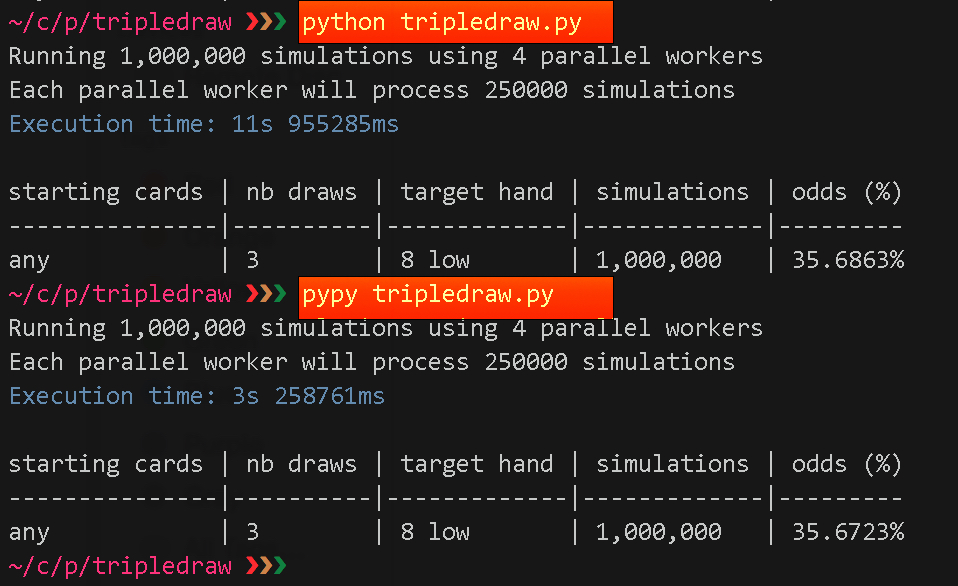
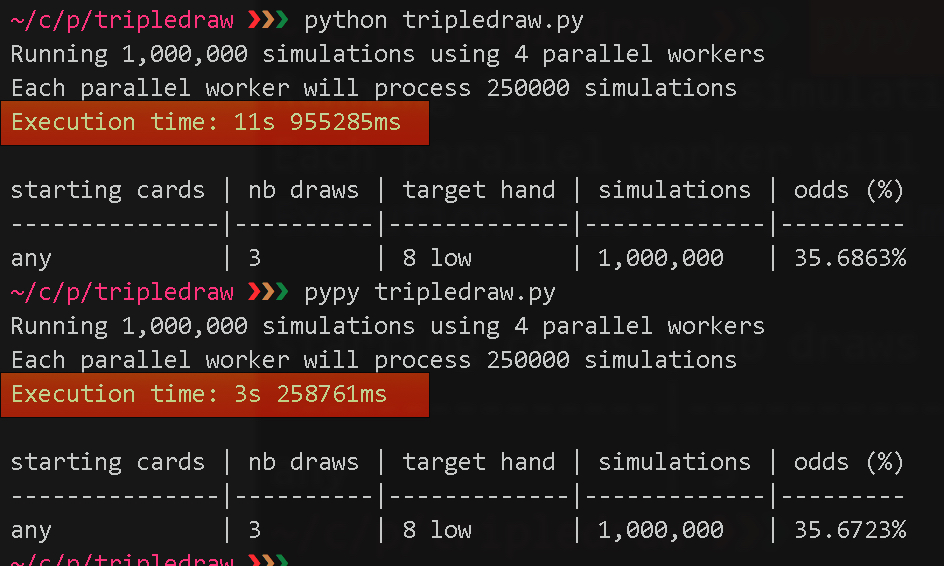
Fixing up typos in readme and new performance test screenshot

Changed region(s): [[0.0, 0.3004, 0.9523, 0.7509], [0.0, 0.0, 0.7987, 0.2703], [0.0, 0.7809, 0.9523, 1.0]]

diff --git a/README.md b/README.md
@@ -2,7 +2,7 @@ TripleDraw :dart:
 ================
 
 
-**TripleDraw is a command line utility for studying cards probabilities in the games of 2-7 Triple Draw And Single Draw (poker)**
+**TripleDraw is a command line utility for studying card probabilities in the games of 2-7 Triple Draw And Single Draw (poker)**
 
 
 ### Before You Start
@@ -49,7 +49,7 @@ starting cards | nb draws | target hand | simulations | odds (%)
 any            | 0        | J low       | 50,000      | 9.692667%   
 ```
 
-Of course you can also study more advanced scenaarios, such adding one, two or three draws and specify starting cards. **In fact setting the number of draws to 1 allows you to study the single draw variant of the game!**  
+Of course you can also study more advanced scenarios, such adding one, two or three draws and specify starting cards. **In fact setting the number of draws to 1 allows you to study the single draw variant of the game!**  
 
 The help menu shows you how to run simulations in more details:  
 
@@ -58,7 +58,7 @@ The help menu shows you how to run simulations in more details:
 
 ### Charting
 
-The `--plot True` option takes snapshots of the simulation at various stages of the compuation and renders the intermediate results in a time series chart.  This is interesting to see how the simulation converges to its final reported value.  
+The `--plot` option takes snapshots of the simulation at various stages of the computation and renders these values in a time series chart.  This is interesting to see how the simulation converges to its final result.  
 
 The black lines show the simulation values for each worker process and the red line shows the consolidated values.  The last data point on the red line is the simulation result and its value is highlighted in red in the chart.
 
@@ -68,17 +68,9 @@ The black lines show the simulation values for each worker process and the red l
   
 
 **Odds of drawing to 7 Low pre flop:**  
-The chart below shows the results of a *7 low preflop* scenario.  The interesting saw-like shape of this chart is caused by the very low probability of event.  
+The chart below shows the results of a *7 low preflop* scenario.  Since this is a rare hand to draw preflop we end up with this interesting 'saw'-shaped chart.  
 
 ![9low3draws](./study/img/7low_preflop.png)
-
-
-
-
-### System Requirements
-
-TripleDraw should work on any version of **OSX** and **linux/ubuntu** with **python 2 or 3** installed.  
-If you are on Windows the installation step might be a little different but it should still work once installed.
 
 
 
@@ -93,6 +85,12 @@ Additionally, you might want to try to run TripleDraw with **PyPy** (http://pypy
   
   
 
+### System Requirements
+
+TripleDraw should work on any version of **OSX** and **linux/ubuntu** with **python 2 or 3** installed.  
+If you are on Windows the installation step might be a little different but it should still work once installed.
+
+
 
 ### Uninstall
 
@@ -103,7 +101,7 @@ Additionally, you might want to try to run TripleDraw with **PyPy** (http://pypy
 ### Understanding TripleDraw Results
 
 The big advantage of using simulations is that it allows to evaluate complex scenarios without using complex maths, unlike you would using probabilistic calculations.
-The flip side is that simulations contain some degree of imprecision compared to the actual probabilities of the evaluated scenarios.  Let's look at an example to illustrate this point and see how to minize this problem with TripleDraw.
+The flip side is that simulations contain some degree of imprecision compared to the actual probabilities of the evaluated scenarios.  Let's look at an example to illustrate this point and see how to minimize this problem with TripleDraw.
 
 
 #### Example
@@ -121,7 +119,7 @@ Precision however comes at the cost of longer running simulations, and it is up 
 ### Finally
 
 
-If you have any questions or suggestions please feel free to raise an issue or contact me at jule64 at gmail dot com.
+If you have any questions or suggestions please feel free to raise an issue or contact me at jule64(at)gmail(dot)com.
 
 Contributions are welcome!
 
